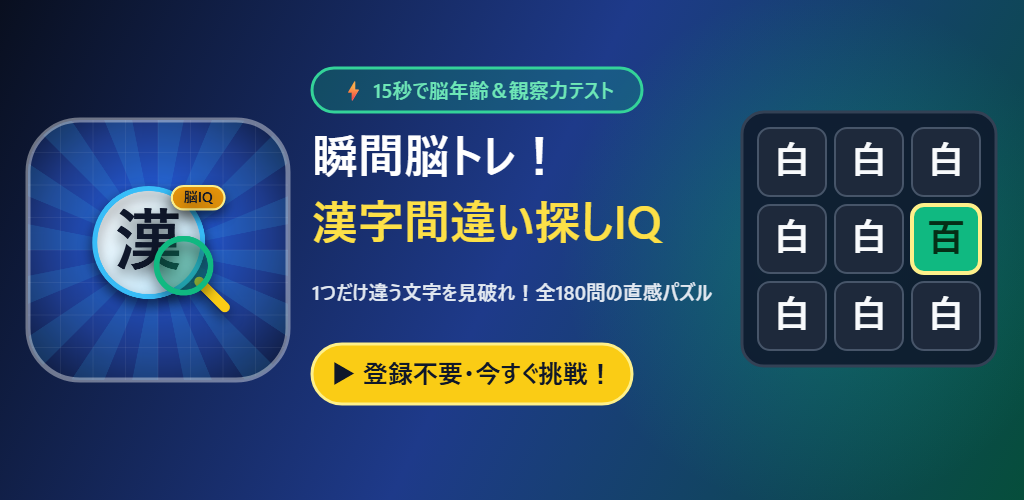
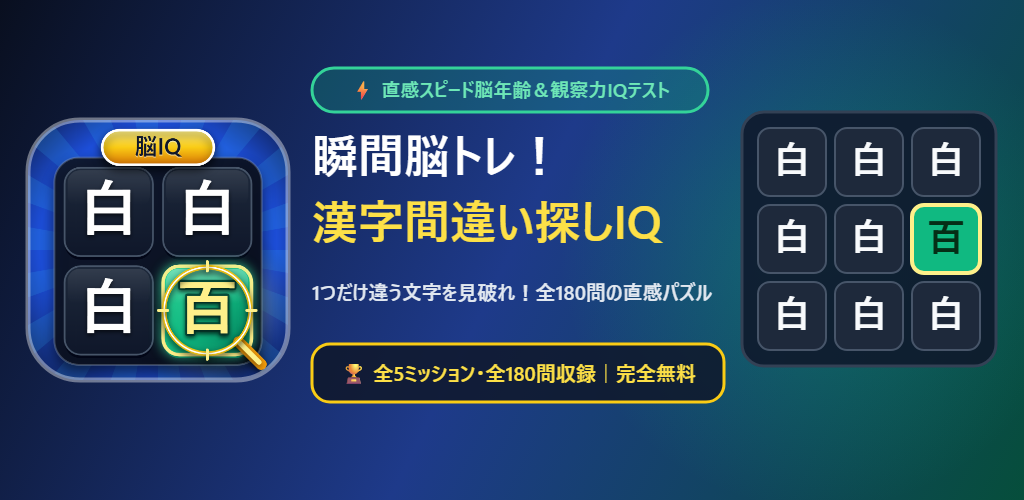
Update store-kit icon_512 (2x2 Kanji grid high-CTR design) and feature_graphic_1024x500 (Google Play compliant badges)

Changed region(s): [[0.0, 0.24, 0.7188, 0.81], [0.3438, 0.12, 0.7188, 0.24]]

diff --git a/store-kit/index.html b/store-kit/index.html
@@ -373,7 +373,7 @@
   <div class="container">
     <!-- Header -->
     <header class="header">
-      <img src="/store-kit/assets/icon_512.png" alt="瞬間脳トレ！漢字間違い探しIQ アイコン">
+      <img src="/store-kit/assets/icon_512.png?v=2" alt="瞬間脳トレ！漢字間違い探しIQ アイコン">
       <div class="header-info">
         <span class="header-badge">📱 スマホだけで完結！</span>
         <h1>瞬間脳トレ！漢字間違い探しIQ<br>1タップ・ストア申請キット</h1>
@@ -426,7 +426,7 @@
           <span class="copy-label">①-B アプリ名（検索対策フルタイトル）</span>
           <span class="copy-meta">29文字 / 30文字以内</span>
         </div>
-        <div class="copy-box" id="text-title-full">瞬間脳トレ！漢字間違い探しIQ - 15秒で脳年齢＆観察力テスト</div>
+        <div class="copy-box" id="text-title-full">瞬間脳トレ！漢字間違い探しIQ - 直感パズルで脳年齢＆観察力テスト</div>
         <button type="button" class="copy-btn" data-target="text-title-full">📋 ワンタップでコピー</button>
       </div>
 
@@ -454,9 +454,9 @@
       <div class="copy-item">
         <div class="copy-header">
           <span class="copy-label">④ 簡単な説明（80文字以内）</span>
-          <span class="copy-meta">74文字</span>
+          <span class="copy-meta">75文字</span>
         </div>
-        <div class="copy-box" id="text-short-desc">15秒で1つだけ違う漢字を見破れ！白と百、大と太など全180問の直感間違い探しであなたの認定脳IQと観察力ランクをスピード診断。毎日楽しく脳活パズル！</div>
+        <div class="copy-box" id="text-short-desc">制限時間内に1つだけ違う漢字を見破れ！白と百、大と太など全180問の直感間違い探しであなたの認定脳IQと観察力ランクをスピード診断。毎日楽しく脳活パズル！</div>
         <button type="button" class="copy-btn" data-target="text-short-desc">📋 ワンタップでコピー</button>
       </div>
 
@@ -466,7 +466,7 @@
           <span class="copy-label">⑤ 詳しい説明（4000文字以内）</span>
           <span class="copy-meta">ASO最適化済</span>
         </div>
-        <div class="copy-box" id="text-full-desc">「白」の中に1つだけ隠れた「百」、「待」の中に紛れ込んだ「持」……あなたは制限時間15秒以内に見破ることができますか？
+        <div class="copy-box" id="text-full-desc">「白」の中に1つだけ隠れた「百」、「待」の中に紛れ込んだ「持」……あなたは制限時間内（初級12秒〜最高難度ボス4秒）に見破ることができますか？
 
 『瞬間脳トレ！漢字間違い探しIQ』は、画面に並ぶ漢字や熟語・記号の中から「1つだけ違う仲間外れ」を直感タップで見つけ出す、爽快スピード脳トレ＆観察力IQテストアプリです！
 
@@ -488,7 +488,7 @@
 
 【3】クリアするほど進化する「認定脳IQ」＆「ランク称号」！
 回答スピードと正確さに応じて、あなたの「認定脳IQスコア」がリアルタイムに上昇！
-「覚醒めし観察チャレンジャー」から「鷹の目を持つ瞬間アナリスト」、そして上位1%の「神眼の空間認識マスター」まで、最高ランクを目指して挑戦しましょう。
+「観察ルーキー」から「違和感ハンター」「鷹の目マスター」、そして最高峰の「瞬間認識の天才」「神の領域」まで、最高ランクを目指して挑戦しましょう。
 
 【4】電車内でも安心！BGM・効果音の個別音量スライダー搭載
 ゲームを盛り上げる軽快なサウンド（WebAudio音源）を搭載しつつ、画面右上の「音量設定」からBGMと効果音（SE）のバランスを0%〜100%まで個別に微調整＆ワンタップ消音が可能。設定は端末に自動保存されます。
@@ -564,11 +564,11 @@
       <!-- 2. Icon -->
       <div class="dl-block">
         <div class="dl-title">🎨 2. アプリアイコン画像（512 × 512 px）</div>
-        <div class="dl-sub">32bit PNG・角丸なし（Google Play / Amazon 両対応）</div>
+        <div class="dl-sub">32bit PNG・角丸なし・高CTR 2×2グリッド版（Google Play / Amazon 両対応）</div>
         <div class="preview-icon-wrap">
-          <img class="preview-icon" src="/store-kit/assets/icon_512.png" alt="アイコン 512x512">
+          <img class="preview-icon" src="/store-kit/assets/icon_512.png?v=2" alt="アイコン 512x512">
         </div>
-        <a class="dl-btn" href="/store-kit/assets/icon_512.png" download="icon_512.png">
+        <a class="dl-btn" href="/store-kit/assets/icon_512.png?v=2" download="icon_512.png">
           📥 アイコン画像（512×512）を保存
         </a>
       </div>
@@ -576,9 +576,9 @@
       <!-- 3. Feature Graphic -->
       <div class="dl-block">
         <div class="dl-title">🖼 3. フィーチャーグラフィック（1024 × 500 px）</div>
-        <div class="dl-sub">ストア上部バナー画像（Google Play 必須 / Amazon 任意）</div>
-        <img class="preview-feature" src="/store-kit/assets/feature_graphic_1024x500.png" alt="フィーチャーグラフィック 1024x500">
-        <a class="dl-btn" href="/store-kit/assets/feature_graphic_1024x500.png" download="feature_graphic_1024x500.png">
+        <div class="dl-sub">ストア上部バナー画像（Google Play ガイドライン準拠・最新アイコン反映版）</div>
+        <img class="preview-feature" src="/store-kit/assets/feature_graphic_1024x500.png?v=2" alt="フィーチャーグラフィック 1024x500">
+        <a class="dl-btn" href="/store-kit/assets/feature_graphic_1024x500.png?v=2" download="feature_graphic_1024x500.png">
           📥 フィーチャーグラフィック（1024×500）を保存
         </a>
       </div>
